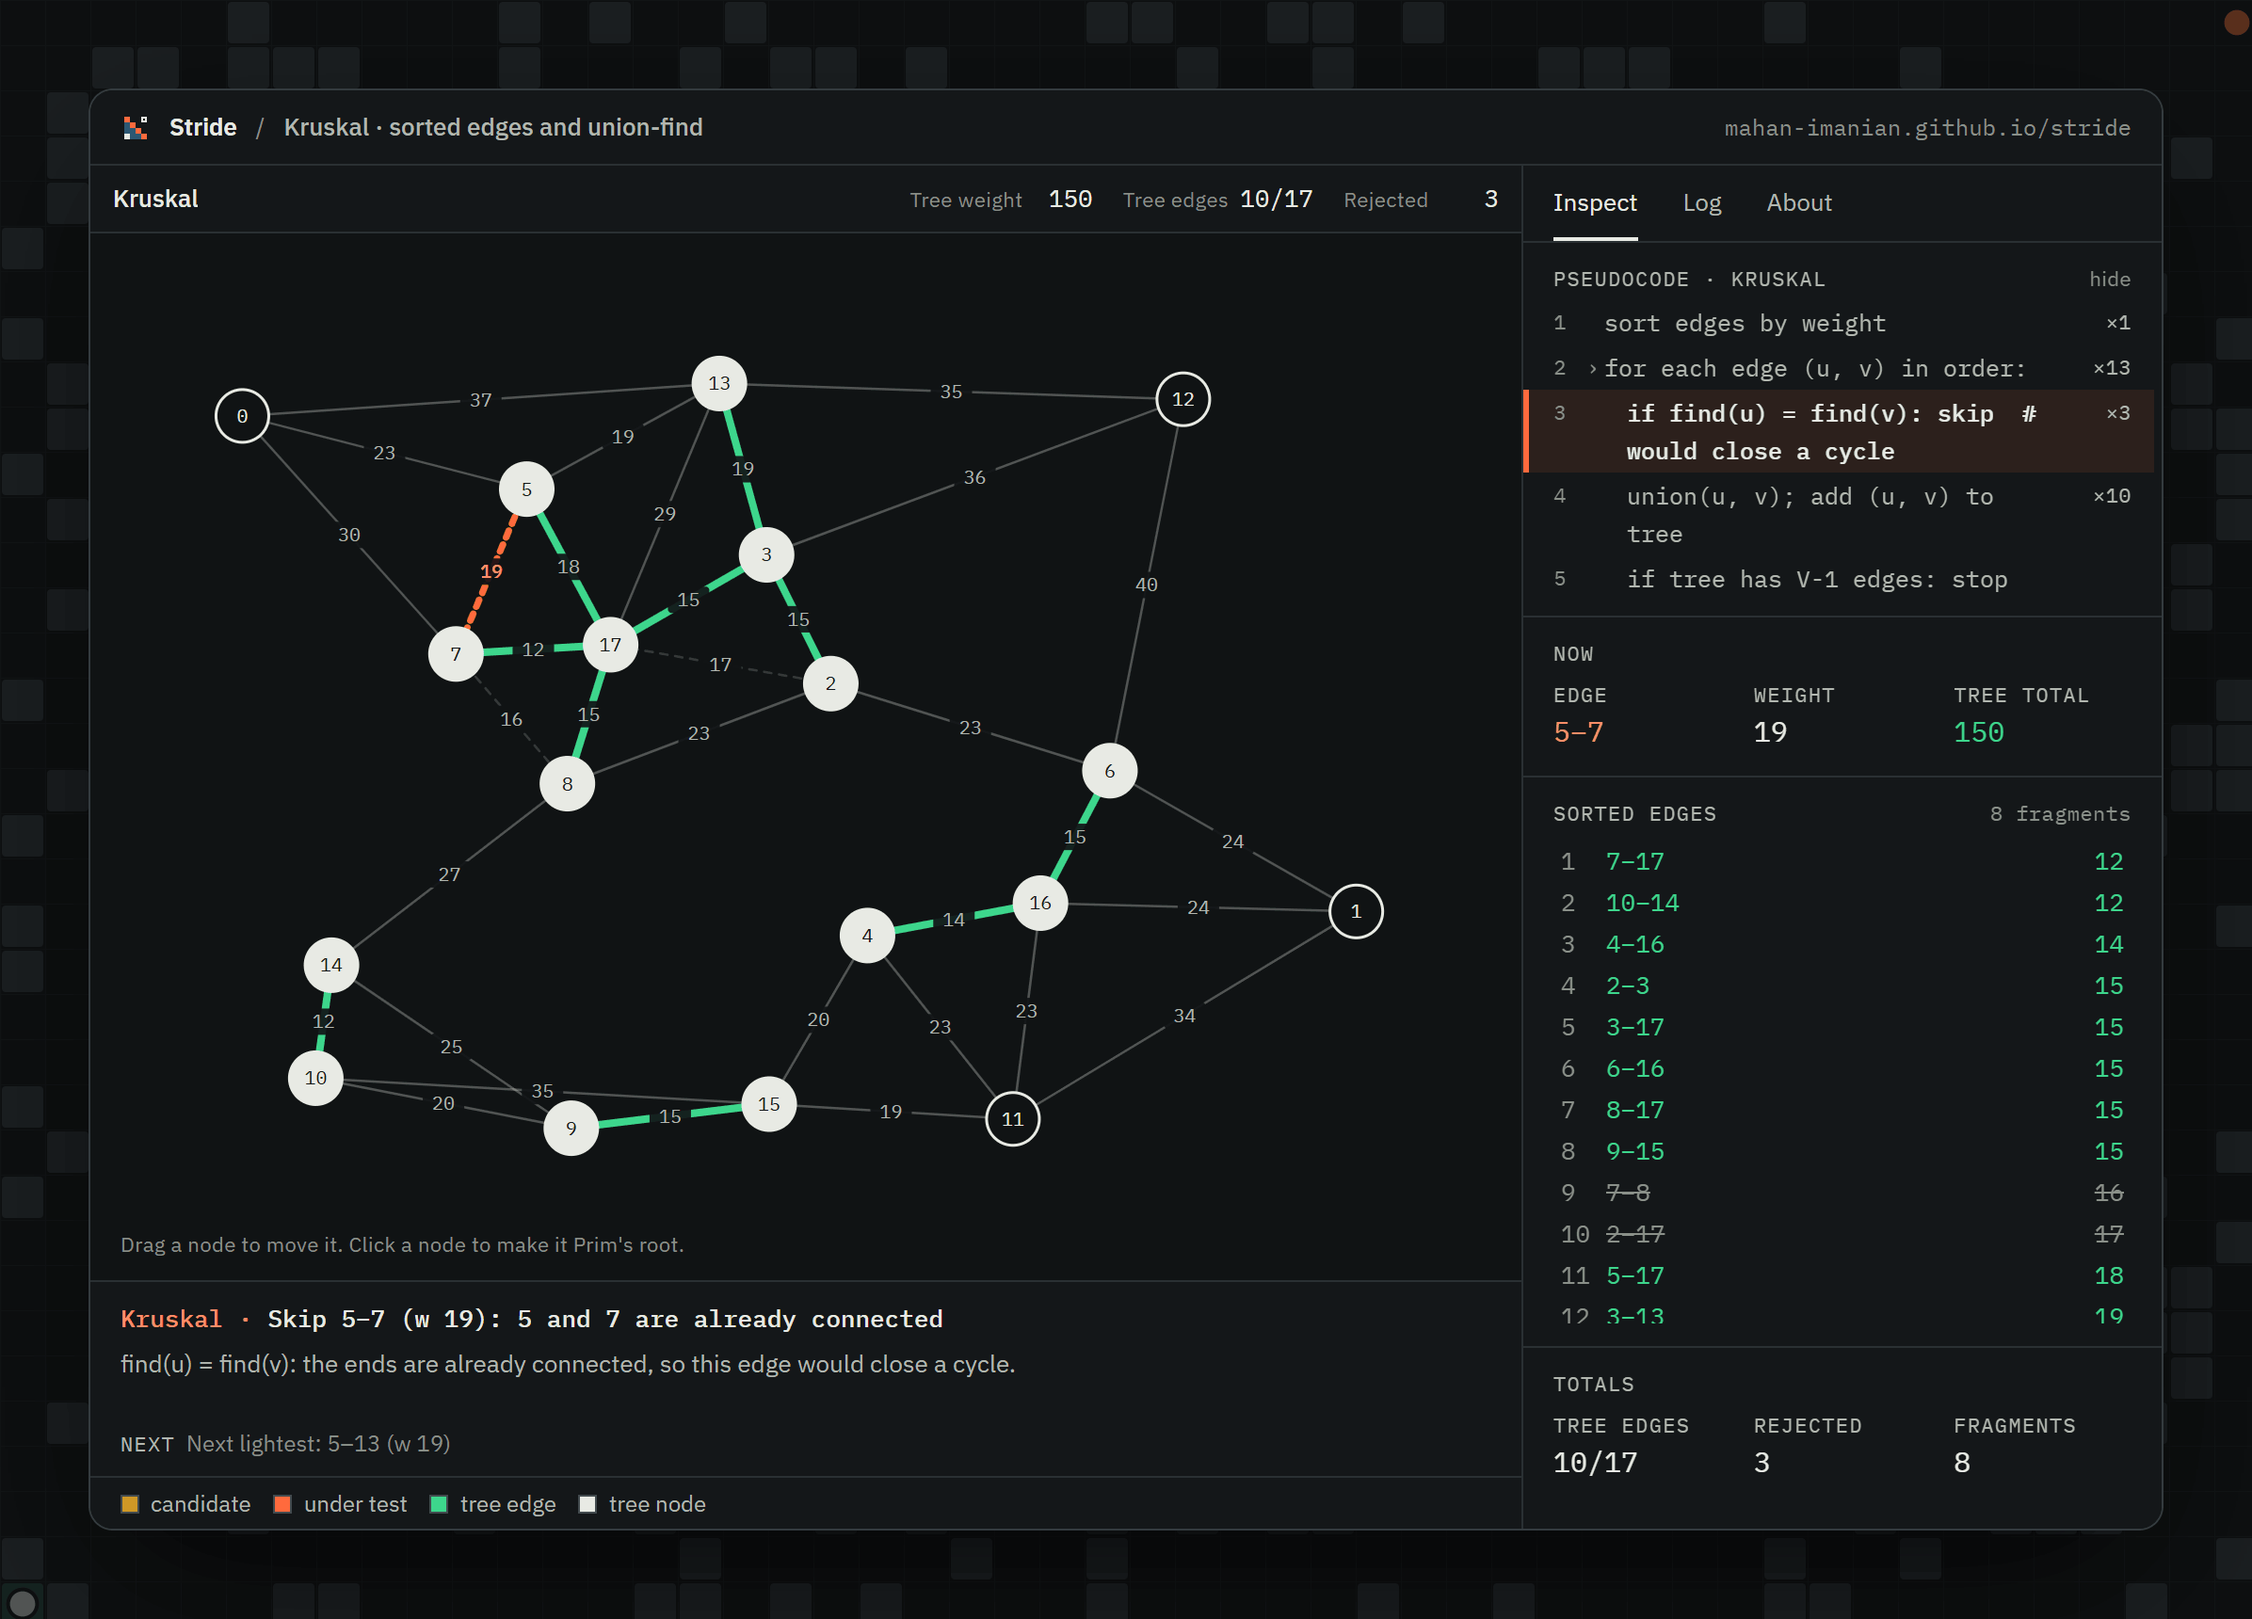
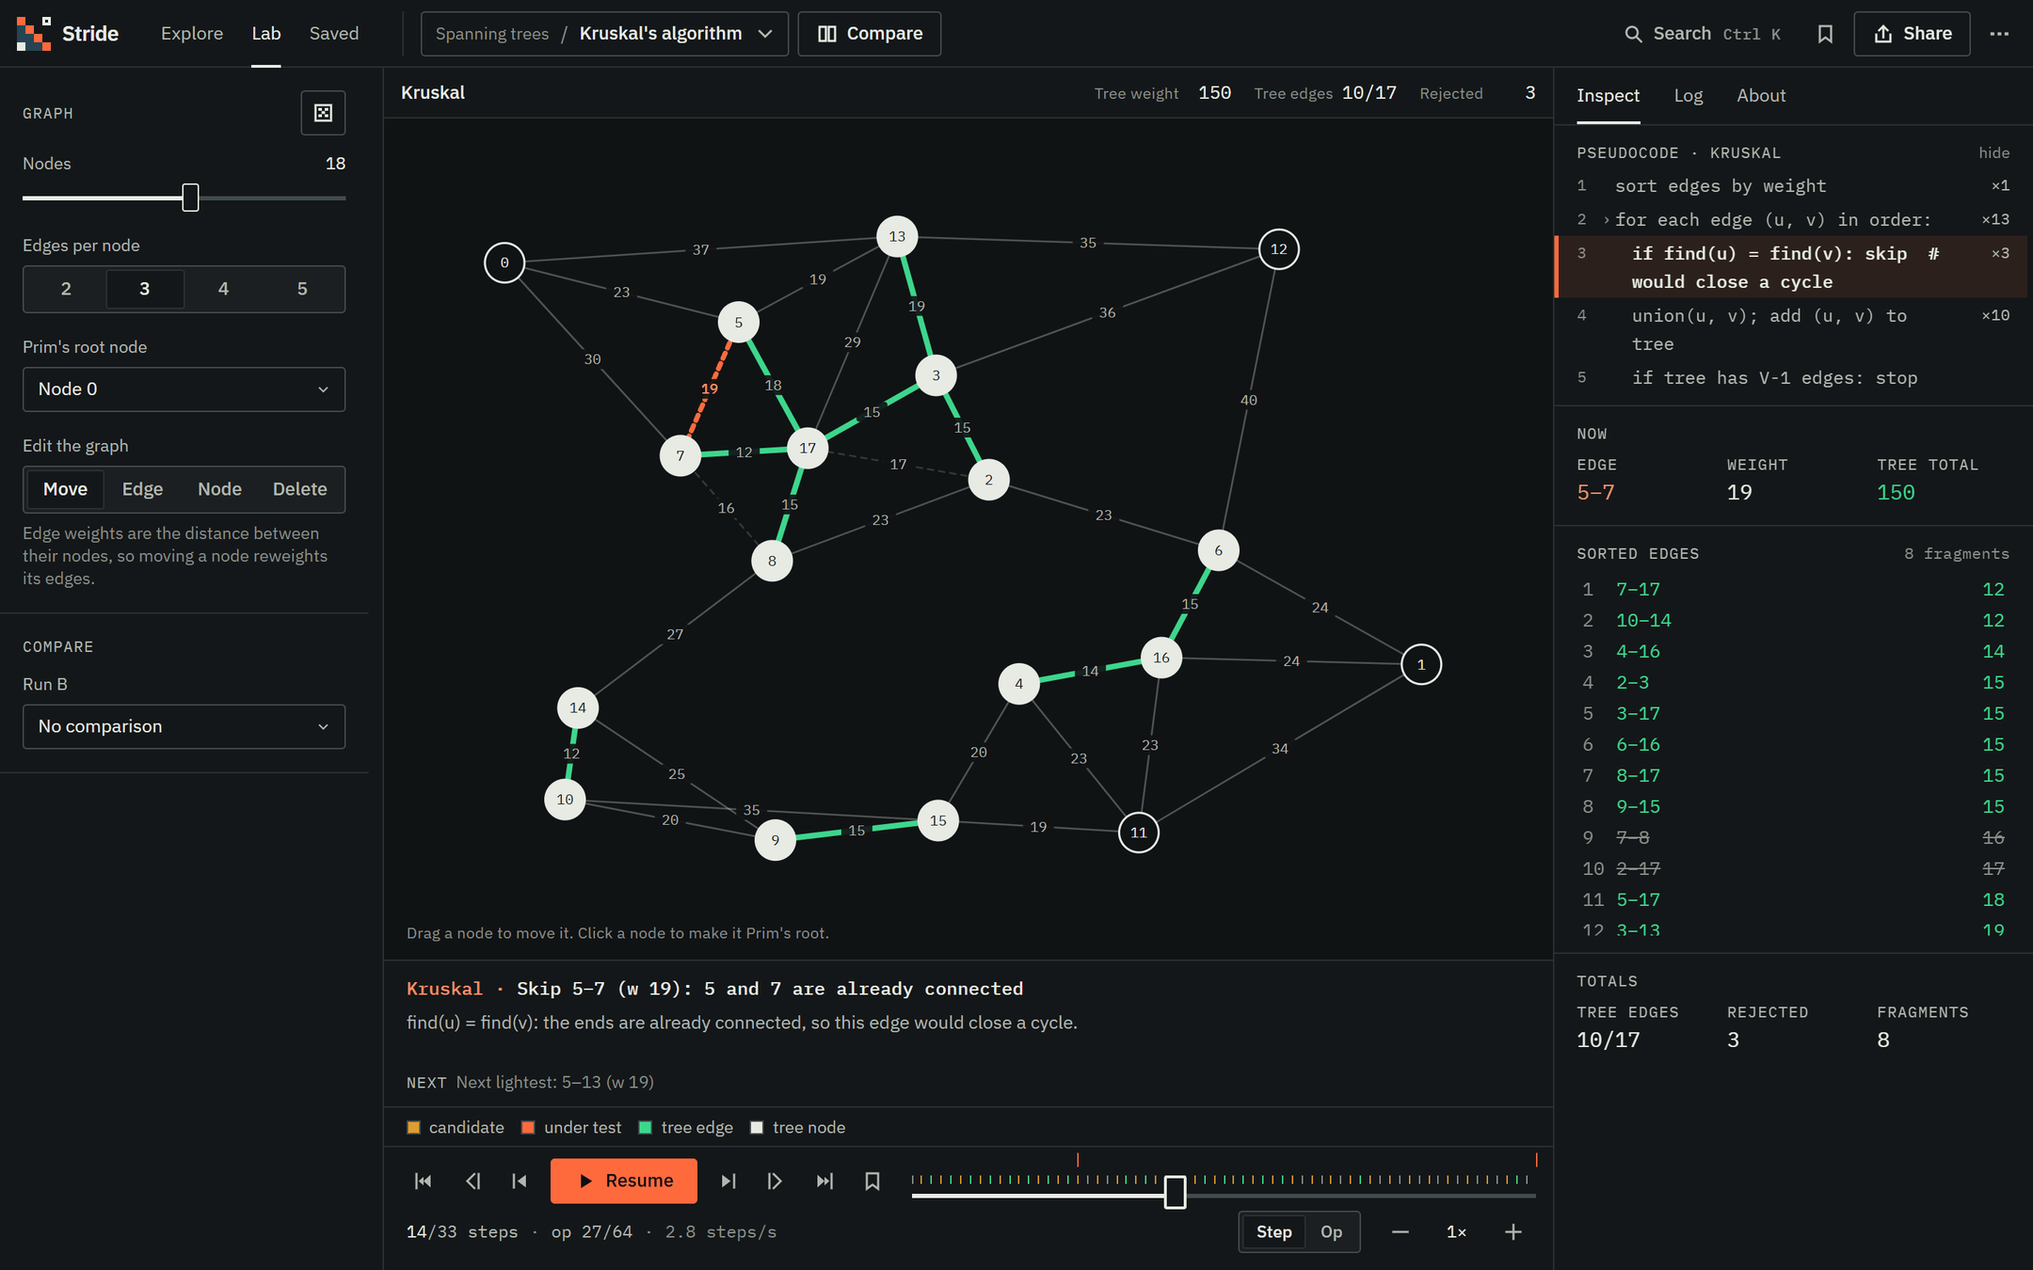
docs(readme): recapture full-window app shots and playback gif

diff --git a/README.md b/README.md
@@ -33,7 +33,7 @@ Run two algorithms, or two settings of one, on the same grid. The overlay shows 
 
 <img alt="The Compare panel after Dijkstra and A* finish: both paths cost 46, A* expanded 295 cells to Dijkstra's 658, 55% fewer, and the two orders diverge at (12, 4)" src=".github/assets/f-compare.png" width="100%">
 
-<img alt="Playback of the same run: the overlay, Dijkstra's pseudocode, its min-heap and both captions advance together until A* reaches the target first" src="docs/screenshots/compare.gif" width="100%">
+<img alt="Playback of the same run from step 0: the overlay, Dijkstra's pseudocode, its min-heap and both captions advance together until both paths are found, then the Compare panel shows the verdict" src="docs/screenshots/compare.gif" width="100%">
 
 ### See the structure the algorithm is deciding from
 
@@ -41,7 +41,7 @@ The BFS queue, DFS stack, Dijkstra's min-heap (stale entries included), A\*'s op
 
 <img alt="Dijkstra 61 steps in: expanded cells and the frontier on the grid, the pq.push line highlighted, and the min-heap ordered by distance with 18 entries waiting" src=".github/assets/f-heap.png" width="100%">
 
-<img alt="The caption 'Discover (5, 8) · dist 9' beside the highlighted pseudocode line, the current cell and the heap entry (4, 6) that is settled next" src=".github/assets/f-caption.png" width="100%">
+<img alt="The same Dijkstra step in the light theme: the caption 'Discover (5, 8) · dist 9', the highlighted pseudocode line, the current cell and the heap entry (4, 6) that is settled next" src=".github/assets/f-caption.png" width="100%">
 
 <img alt="Quicksort placing pivot 21 at index 5: lo, i and hi pointers under the bars, the active range shaded, and a call stack five calls deep" src=".github/assets/f-quicksort.png" width="100%">
 
@@ -51,7 +51,7 @@ The BFS queue, DFS stack, Dijkstra's min-heap (stale entries included), A\*'s op
 
 Explore lists 14 prepared experiments, each with a question such as _Why does breadth-first search always find the fewest moves?_ or _On nearly sorted data, can a quadratic sort beat merge sort?_ The input is built and the run is recorded when you open one. Change a wall, the pivot rule, the heuristic or the learning rate and the run is recorded again.
 
-<img alt="The Explore page: the first six prepared experiments, each titled with its question and the algorithms it runs" src=".github/assets/f-explore.png" width="100%">
+<img alt="The Explore page: the intro next to a finished A* versus Dijkstra run, with the first prepared experiments below, each titled with its question" src=".github/assets/f-explore.png" width="100%">
 
 In _Bad starting centroids_, k-means++ settles at inertia 1.657 after 2 iterations, while centroids started in a corner settle at 7.718 after 4, with one cluster left empty.
 
@@ -61,7 +61,7 @@ In _Bad starting centroids_, k-means++ settles at inertia 1.657 after 2 iteratio
 
 Press <kbd>P</kbd> for presentation mode: full screen, large type, and toggles for code, state, explanation and metrics. Every experiment is a link: input, seed, settings and optionally the current step are encoded in the URL, and JSON export uses the same format.
 
-<img alt="Presentation mode at 1600 by 900: BFS in a maze with the live queue and the caption in large type" src=".github/assets/f-present.png" width="100%">
+<img alt="Presentation mode: BFS in a maze with the live queue and the caption in large type" src=".github/assets/f-present.png" width="100%">
 
 ## Quick start
 
@@ -151,8 +151,6 @@ CI runs lint, typecheck, tests and both builds on every push and pull request to
 - No data-structure family (BST, hash table) and no Bellman-Ford or topological sort yet.
 
 See the [changelog](CHANGELOG.md) for what changed between versions.
-
-Stride was called Algoscope until October 2026, and the repository was `ML-Algorithm-Visualizer`. GitHub redirects the old repository URL, but the old site at `/ML-Algorithm-Visualizer/` no longer exists. A link shared from it can still be opened by pasting it into **Import experiment** in the ⋯ menu, and files exported under the old name still import. Settings and saved experiments carry over because the origin is the same and the storage keys did not change.
 
 ## License
 
